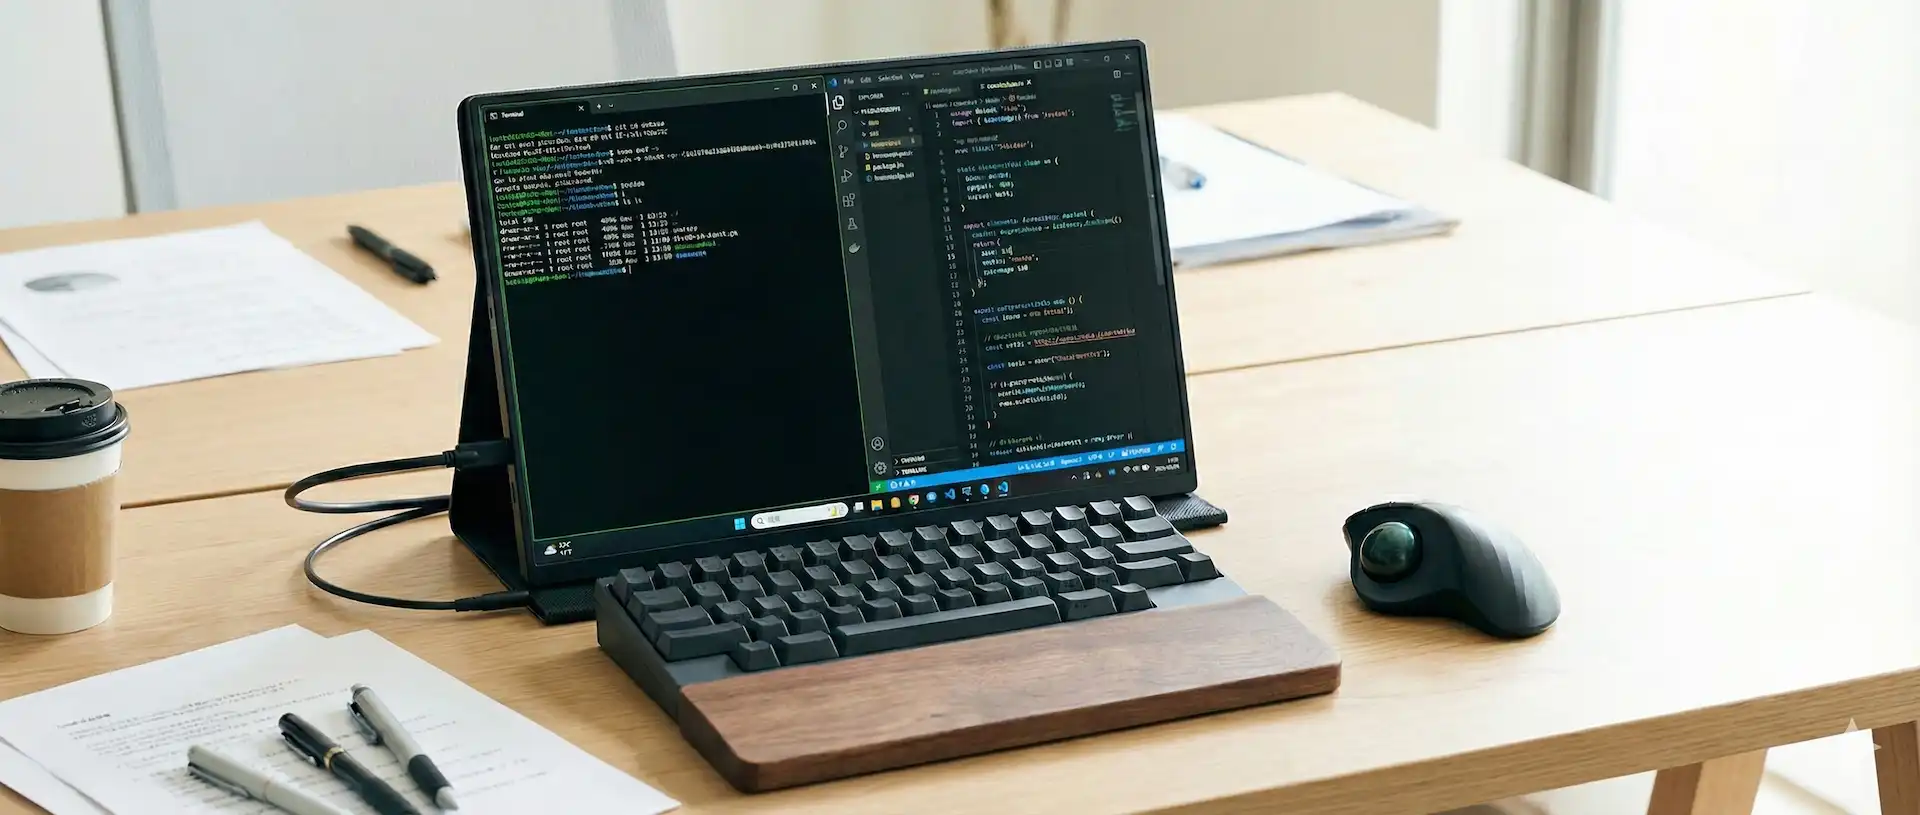
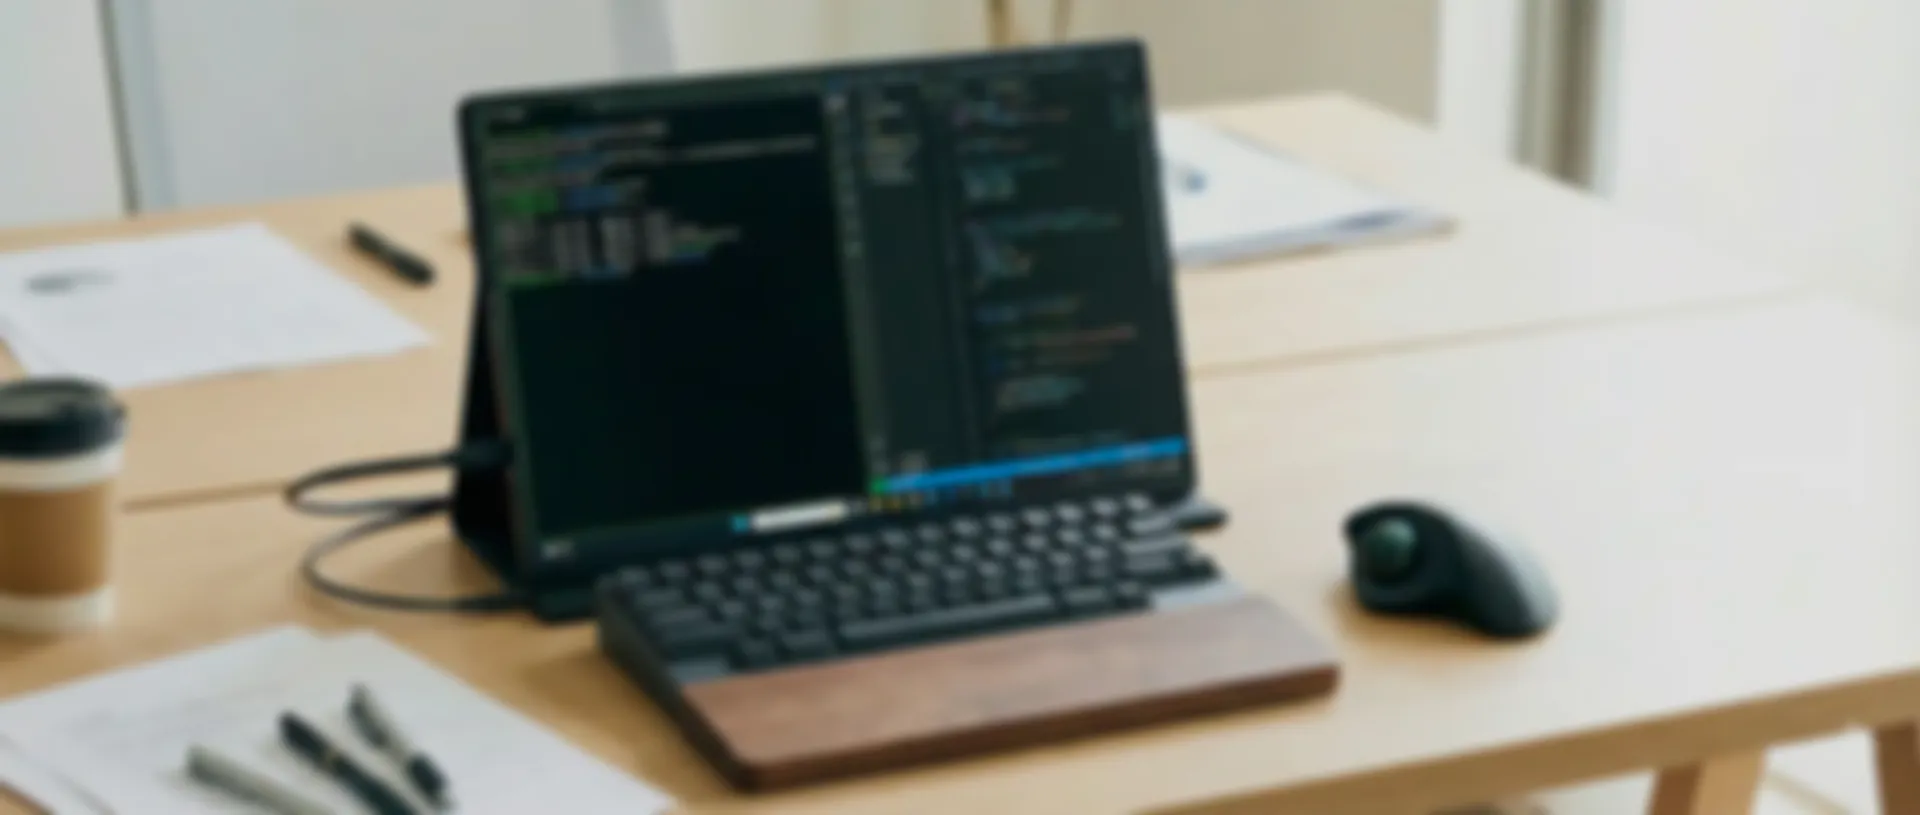
fix: 画像関連と読込の軽量化

diff --git a/src/app/layout.tsx b/src/app/layout.tsx
@@ -6,17 +6,19 @@ import { MaintenanceTemplate } from "@/components/templates/MaintenanceTemplate"
 const geistSans = Geist({
   variable: "--font-geist-sans",
   subsets: ["latin"],
+  display: "swap",
 });
 
 const geistMono = Geist_Mono({
   variable: "--font-geist-mono",
   subsets: ["latin"],
+  display: "swap",
 });
 
 const notoSansJp = Noto_Sans_JP({
   variable: "--font-noto-sans-jp",
   weight: ["400", "700"],
-  subsets: ["latin", "latin-ext"],
+  subsets: ["latin"],
   display: "swap",
 });
 
@@ -42,7 +44,7 @@ export const metadata: Metadata = {
     siteName: process.env.NEXT_PUBLIC_SITE_NAME_JA || "テック工房",
     locale: "ja_JP",
     type: "website",
-    images: "/og-image.png",
+    images: "/og-image.jpg",
   },
   twitter: {
     card: "summary_large_image",
@@ -53,7 +55,7 @@ export const metadata: Metadata = {
       "愛知を拠点に活動するフリーランスエンジニア。Webシステム開発、業務改善、DX支援など、技術でビジネスの課題を解決します。",
     site: process.env.NEXT_PUBLIC_TWITTER_SITE,
     creator: process.env.NEXT_PUBLIC_TWITTER_CREATOR,
-    images: "/og-image.png",
+    images: "/og-image.jpg",
   },
   icons: {
     icon: "/logo.png",

diff --git a/src/components/organisms/Sections/FirstViewSection.tsx b/src/components/organisms/Sections/FirstViewSection.tsx
@@ -1,8 +1,19 @@
-"use client";
-
 import Link from "next/link";
 import Image from "next/image";
-import { ChevronDown } from "lucide-react";
+const ChevronDown = ({ className }: { className?: string }) => (
+  <svg
+    xmlns="http://www.w3.org/2000/svg"
+    viewBox="0 0 24 24"
+    fill="none"
+    stroke="currentColor"
+    strokeWidth={2}
+    strokeLinecap="round"
+    strokeLinejoin="round"
+    className={className}
+  >
+    <path d="m6 9 6 6 6-6" />
+  </svg>
+);
 import backgroundImage from "@/images/background-view.webp";
 
 export const FirstViewSection = () => {
@@ -19,10 +30,11 @@ export const FirstViewSection = () => {
             fill
             priority
             placeholder="blur"
-            className="object-cover blur-[6px] brightness-[0.9]"
+            sizes="100vw"
+            className="object-cover"
           />
         </div>
-        <div className="absolute inset-0 bg-[#faf7f5]/45 backdrop-blur-[1px]" />
+        <div className="absolute inset-0 bg-[#faf7f5]/45" />
       </div>
 
       <div className="relative z-10 px-4 text-center">

diff --git a/src/components/molecules/RepoModal.tsx b/src/components/molecules/RepoModal.tsx
@@ -1,6 +1,7 @@
 "use client";
 
 import { useState, useEffect } from "react";
+import Image from "next/image";
 import ReactMarkdown, { type Components } from "react-markdown";
 import remarkGfm from "remark-gfm";
 import rehypeRaw from "rehype-raw";
@@ -59,17 +60,14 @@ export const RepoModal = ({
         src = `https://raw.githubusercontent.com/${owner}/${repo.name}/${repo.default_branch}/${cleanSrc}`;
       }
       return (
-        /* eslint-disable-next-line @next/next/no-img-element */
-        <img
-          {...props}
+        <Image
           src={src as string}
-          style={{
-            maxWidth: "100%",
-            height: "auto",
-            display: "block",
-            margin: "1rem auto",
-          }}
           alt={props.alt || "Repository image"}
+          width={800}
+          height={400}
+          className="rounded-lg mx-auto my-4 max-w-full h-auto"
+          sizes="(max-width: 768px) 100vw, 800px"
+          loading="lazy"
         />
       );
     },

diff --git a/src/components/molecules/WorkCard.tsx b/src/components/molecules/WorkCard.tsx
@@ -3,7 +3,12 @@
 import { useState } from "react";
 import { type Work } from "@/types/work";
 import { CardBase } from "../atoms/CardBase";
-import { WorkModal } from "./WorkModal";
+import dynamic from "next/dynamic";
+
+const WorkModal = dynamic(
+  () => import("./WorkModal").then((mod) => mod.WorkModal),
+  { ssr: false },
+);
 import { FaBriefcase } from "react-icons/fa";
 
 type WorkCardProps = {
@@ -59,7 +64,9 @@ export const WorkCard = ({ work }: WorkCardProps) => {
         </div>
       </CardBase>
 
-      <WorkModal isOpen={isOpen} onClose={() => setIsOpen(false)} work={work} />
+      {isOpen && (
+        <WorkModal isOpen={isOpen} onClose={() => setIsOpen(false)} work={work} />
+      )}
     </>
   );
 };

diff --git a/src/components/organisms/Sections/AboutSection.tsx b/src/components/organisms/Sections/AboutSection.tsx
@@ -15,10 +15,10 @@ export const AboutSection = () => {
         <div className="shrink-0">
           <div className="relative w-48 h-48 sm:w-64 sm:h-64 rounded-full overflow-hidden border-4 border-white shadow-md">
             <Image
-              src="/icon.jpg"
+              src="/icon.webp"
               alt="プロフィールアイコン"
-              width={500}
-              height={500}
+              width={256}
+              height={256}
               className="object-cover"
               priority
               sizes="(max-width: 640px) 192px, 256px"

diff --git a/src/components/atoms/SectionContainer.tsx b/src/components/atoms/SectionContainer.tsx
@@ -15,7 +15,9 @@ export const SectionContainer = ({
 }: SectionContainerProps) => {
   return (
     <section id={id} className="py-24 bg-[#faf7f5]">
-      <div className={`mx-auto max-w-${maxWidth} px-4 sm:px-6 lg:px-8`}>
+      <div
+        className={`mx-auto px-4 sm:px-6 lg:px-8 ${maxWidth === "5xl" ? "max-w-5xl" : "max-w-7xl"}`}
+      >
         {/* タイトルデザイン */}
         <div className="mb-8 text-center md:text-left">
           <h2 className="text-3xl font-bold tracking-tight text-[#4a3f35] sm:text-4xl relative inline-block">

diff --git a/next.config.ts b/next.config.ts
@@ -6,8 +6,17 @@ const withBundleAnalyzer = _withBundleAnalyzer({
 });
 
 const nextConfig: NextConfig = {
-  /* config options here */
   reactCompiler: true,
+  images: {
+    formats: ["image/avif", "image/webp"],
+    remotePatterns: [
+      {
+        protocol: "https",
+        hostname: "raw.githubusercontent.com",
+      },
+    ],
+  },
+  poweredByHeader: false,
 };
 
 export default withBundleAnalyzer(nextConfig);
